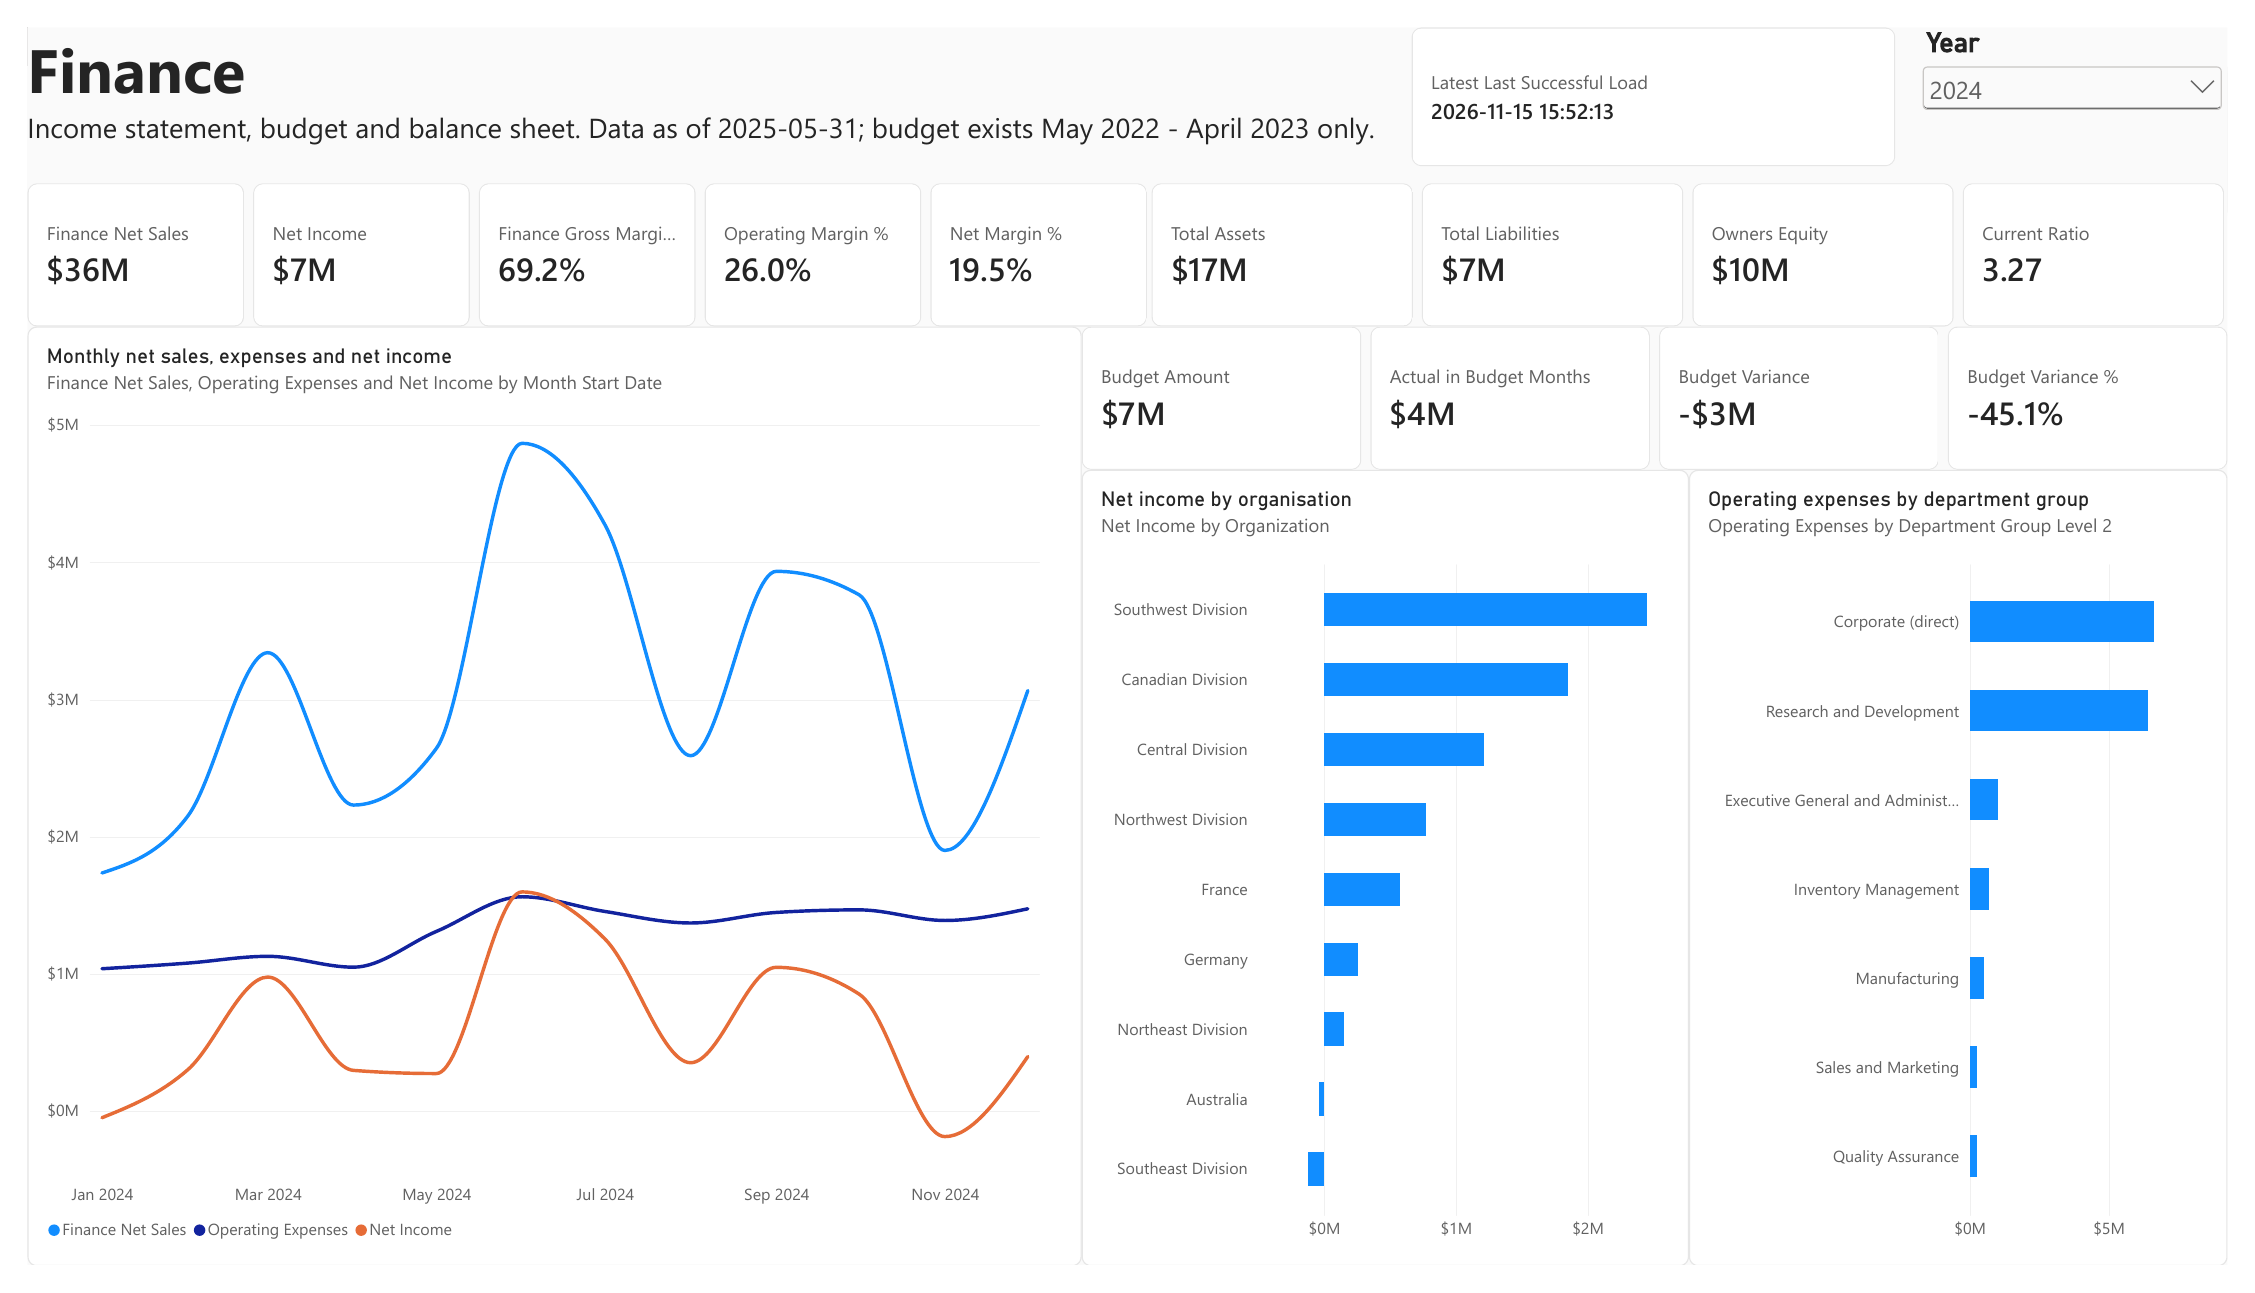
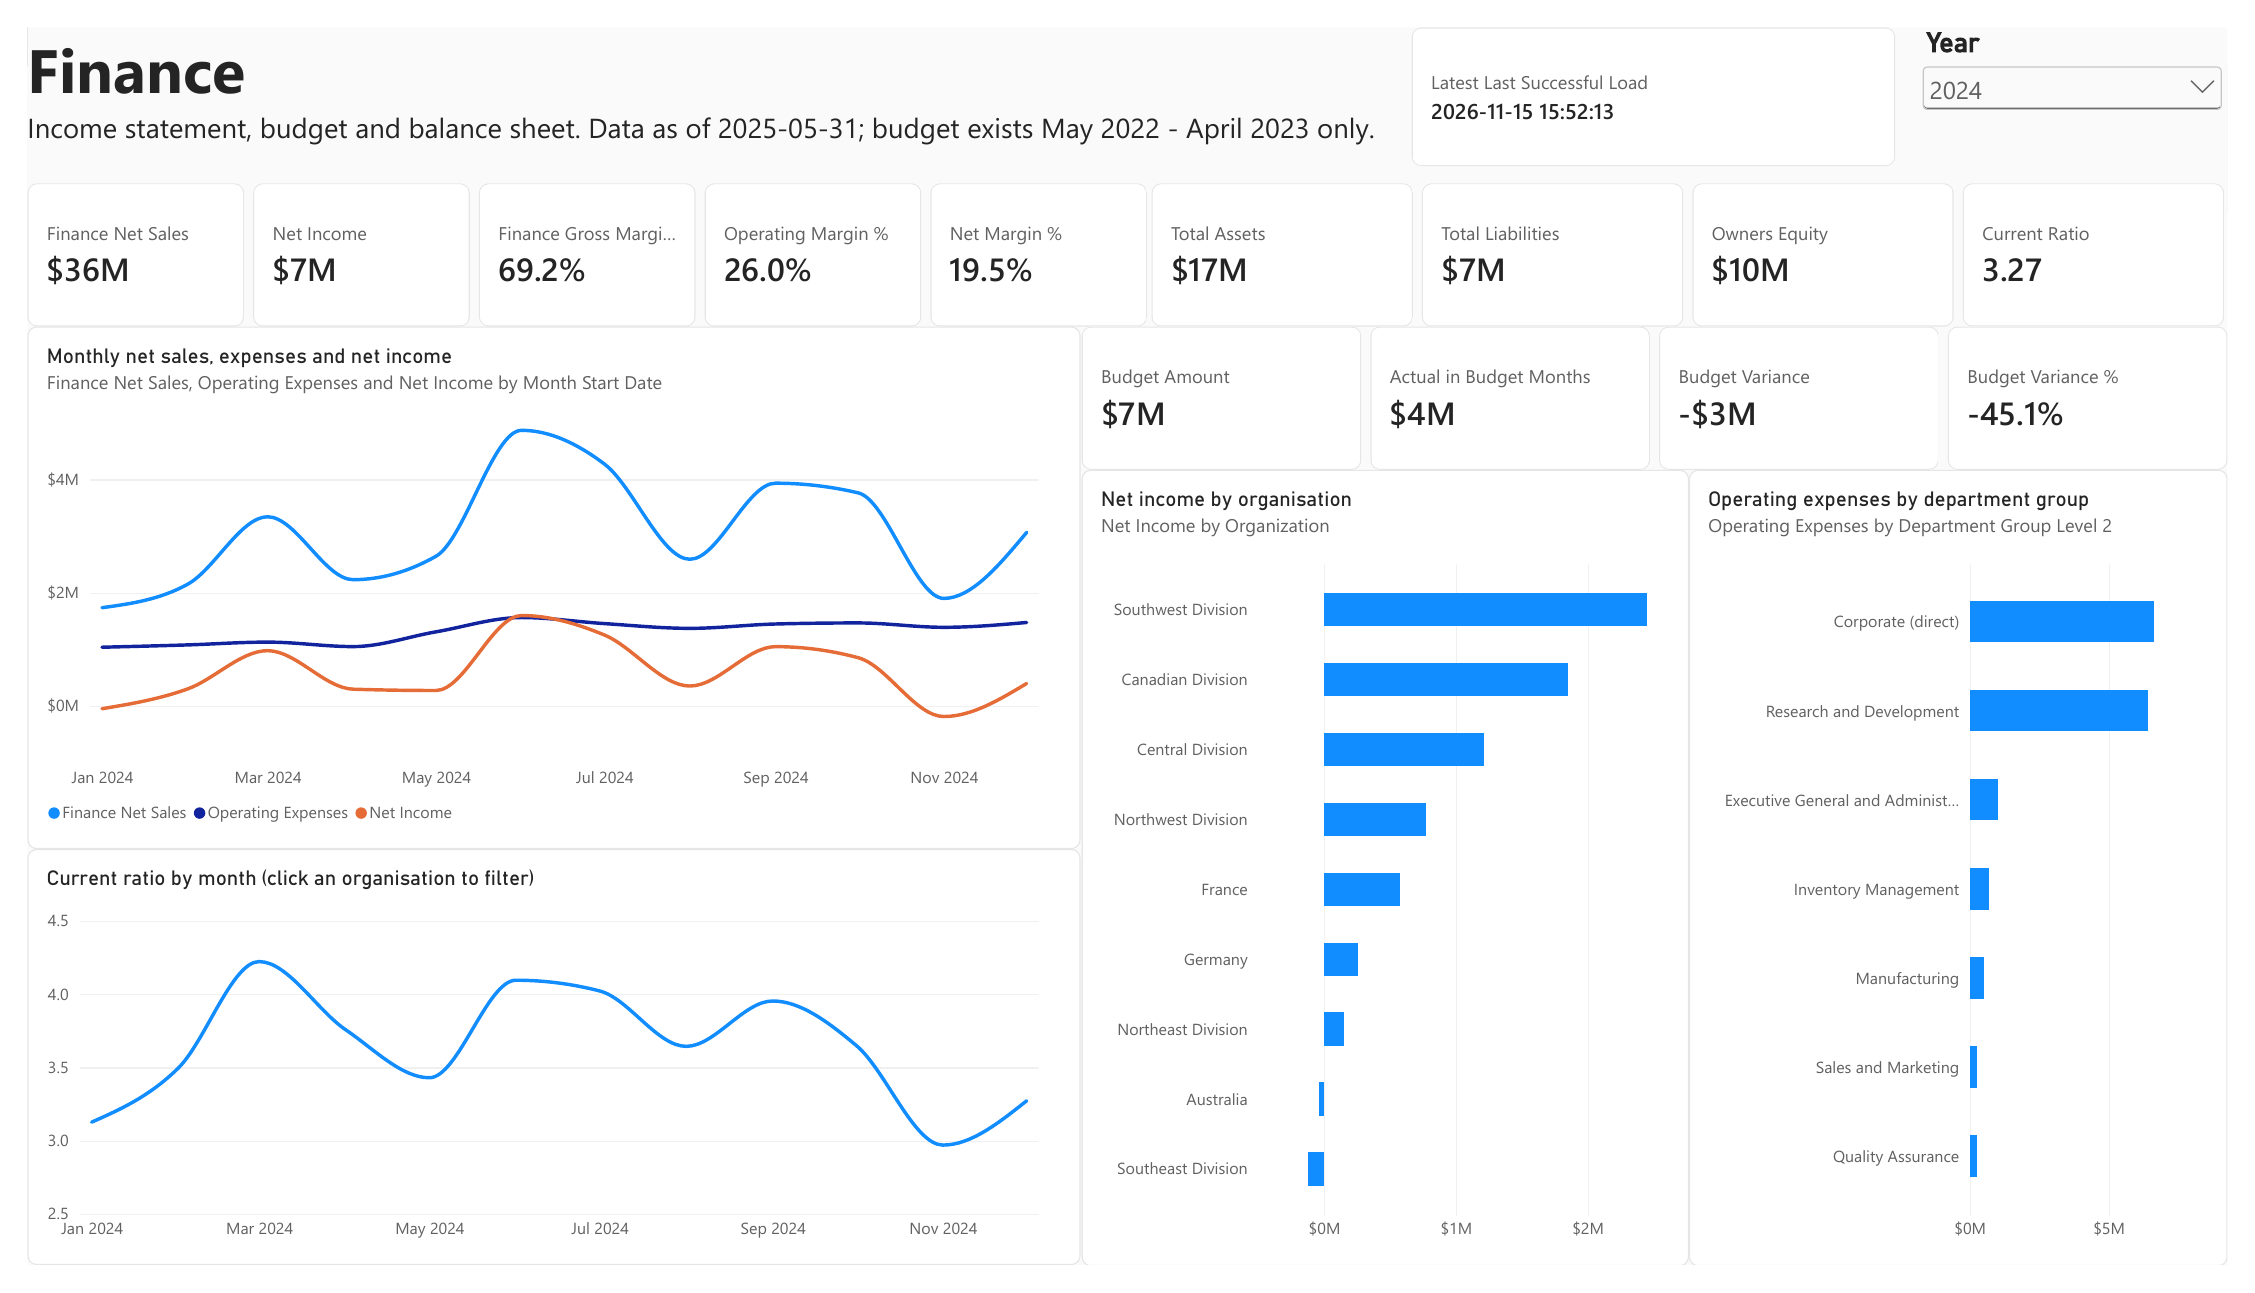
Purchasing message font size; updated Finance, Purchasing and Stephen screenshots; B7 test 9 passed

diff --git a/DA-01/docs/test_results.md b/DA-01/docs/test_results.md
@@ -306,7 +306,7 @@ Notes:
 
 ## B7: Report pages and security in the report
 
-**Report:** `DA-01/powerbi/EnterpriseBI_Suite.pbip`, 7 pages (D135) | **Run:** 16-18 Nov 2026 | **Data:** batch 5082 | **Result:** all passed, except test 9, which is still to be confirmed
+**Report:** `DA-01/powerbi/EnterpriseBI_Suite.pbip`, 7 pages (D135) | **Run:** 16-18 Nov 2026 | **Data:** batch 5082 | **Result:** all passed
 
 Pages are checked with the Year slicer at 2024 unless stated. Expected values come from SQL run in the same sessions or from earlier tests.
 
@@ -320,7 +320,7 @@ Pages are checked with the Year slicer at 2024 unless stated. Expected values co
 | 6 | Purchasing & Inventory: spend 2024 and stock | Vendor total = Spend card; stock as B6 test 8 (28,522,266.13; 61 / 62 / 363); stock not filtered by year | 19,404,103 and $19M; $29M, 61 / 62 / 363 in every year | Pass |
 | 7 | Production: 2024 | Products table total = KPI cards | 28,994 / 5,496 / 0.29% / 67.2% in both | Pass |
 | 8 | Data Quality: latest load | SSMS: 27 passed, 0 warned, 0 failed; 77 runs, 21 failed | Same; checks table 27 rows (W01-W18, E01-E09), each batch once | Pass |
-| 9 | Spend by product category (P1, D139) | Category bars add up to the Spend card (19,404,103) | Four categories, no blank category; exact total to be read from data labels | To confirm |
+| 9 | Spend by product category (P1, D139) | Category bars add up to the Spend card (19,404,103) | Four categories, no blank category; data labels $8.1M + $7.1M + $4.1M + $0.1M = $19.4M | Pass |
 | 10 | Current ratio by month (F5, D139) | December 2024 = Current Ratio card | Company 3.27; Southwest Division 4.59 when selected | Pass |
 | 11 | Days of stock cover after D136 | Owner unchanged: HL Mountain Seat/Saddle 639.0, total 17.3 | 639.0 and 17.3 | Pass |
 
